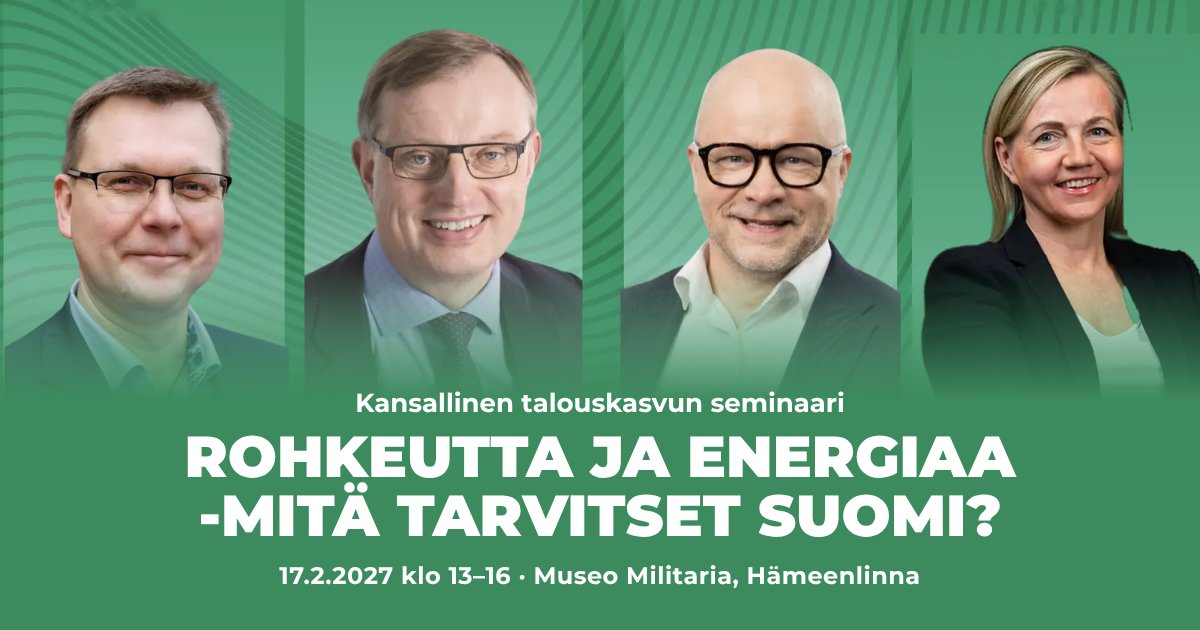
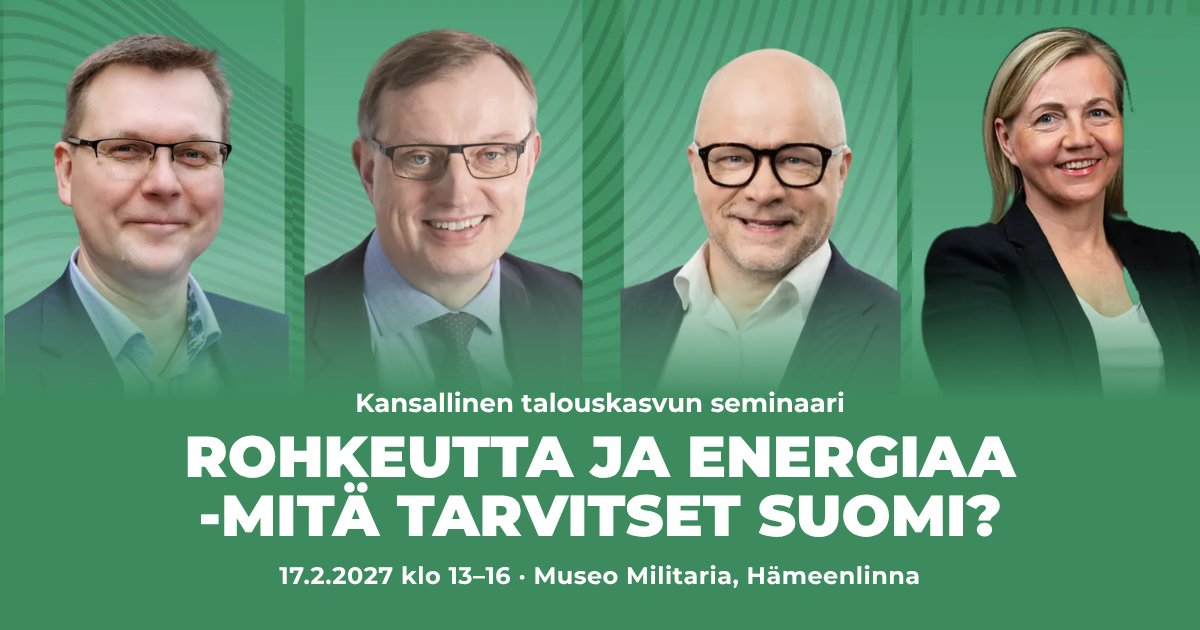
Headerit: kasvot ja nimet samalle tasolle, jakokuvat päivitetty
Claude-Session: https://claude.ai/code/session_01BAnQRurGiUY5PGZvuWWevC

Changed region(s): [[0.0, 0.0302, 0.2467, 0.6032], [0.7708, 0.0302, 1.0, 0.573], [0.7708, 0.573, 0.8017, 0.6032]]

diff --git a/kasvu.html b/kasvu.html
@@ -47,7 +47,7 @@ window.SEMINAARI = {
 };
 </script>
 
-<link rel="stylesheet" href="kirsi.css?v=20261101g">
+<link rel="stylesheet" href="kirsi.css?v=20261101h">
 </head>
 <body class="teema-kasvu">
 
@@ -61,7 +61,7 @@ window.SEMINAARI = {
 <header class="hero hero-ad">
   <div class="ad">
     <img src="kuvat/hero-kasvu.webp" alt="Sami Kotiniemi, Jukka Leskelä, Aki Kangasharju ja Tiina Laisi-Puheloinen" width="1600" height="726">
-    <div class="names"><div class="n" style="--b:66.5%"><div class="lbl"><b>Sami<br>Kotiniemi</b><small>Toimitusjohtaja, DA-Design Oy</small></div></div><div class="n" style="--b:74%"><div class="lbl"><b>Jukka<br>Leskelä</b><small>Toimitusjohtaja, Energiateollisuus</small></div></div><div class="n" style="--b:70.5%"><div class="lbl"><b>Aki<br>Kangasharju</b><small>Toimitusjohtaja, ETLA ja EVA</small></div></div><div class="n" style="--b:70.5%"><div class="lbl"><b>Tiina<br>Laisi-Puheloinen</b><small>Toimitusjohtaja, Fiban</small></div></div></div>
+    <div class="names"><div class="n" style="--b:73%"><div class="lbl"><b>Sami<br>Kotiniemi</b><small>Toimitusjohtaja, DA-Design Oy</small></div></div><div class="n" style="--b:73%"><div class="lbl"><b>Jukka<br>Leskelä</b><small>Toimitusjohtaja, Energiateollisuus</small></div></div><div class="n" style="--b:73%"><div class="lbl"><b>Aki<br>Kangasharju</b><small>Toimitusjohtaja, ETLA ja EVA</small></div></div><div class="n" style="--b:73%"><div class="lbl"><b>Tiina<br>Laisi-Puheloinen</b><small>Toimitusjohtaja, Fiban</small></div></div></div>
   </div>
   <div class="hero-text"><div class="in">
     <p class="kicker">Kansallinen talouskasvun seminaari</p>
@@ -272,6 +272,6 @@ window.SEMINAARI = {
   </div>
 </dialog>
 
-<script src="kassa.js?v=20261101g"></script>
+<script src="kassa.js?v=20261101h"></script>
 </body>
 </html>

diff --git a/puolustus.html b/puolustus.html
@@ -47,7 +47,7 @@ window.SEMINAARI = {
 };
 </script>
 
-<link rel="stylesheet" href="kirsi.css?v=20261101g">
+<link rel="stylesheet" href="kirsi.css?v=20261101h">
 </head>
 <body>
 
@@ -61,7 +61,7 @@ window.SEMINAARI = {
 <header class="hero hero-ad">
   <div class="ad">
     <img src="kuvat/hero-puolustus.webp" alt="Katleena Kortesuo, Timo Rotonen, Esa Rautalinko ja Tuija Karanko" width="1600" height="637">
-    <div class="names"><div class="n" style="--b:61.5%"><div class="lbl"><b>Katleena<br>Kortesuo</b><small>Tietokirjailija</small></div></div><div class="n" style="--b:69.5%"><div class="lbl"><b>Timo<br>Rotonen</b><small>Kenraaliluutnantti EVP</small></div></div><div class="n" style="--b:73.5%"><div class="lbl"><b>Esa<br>Rautalinko</b><small>Patrian toimitusjohtaja 2019-2026</small></div></div><div class="n" style="--b:64%"><div class="lbl"><b>Tuija<br>Karanko</b><small>PIA pääsihteeri</small></div></div></div>
+    <div class="names"><div class="n" style="--b:73%"><div class="lbl"><b>Katleena<br>Kortesuo</b><small>Tietokirjailija</small></div></div><div class="n" style="--b:73%"><div class="lbl"><b>Timo<br>Rotonen</b><small>Kenraaliluutnantti EVP</small></div></div><div class="n" style="--b:73%"><div class="lbl"><b>Esa<br>Rautalinko</b><small>Patrian toimitusjohtaja 2019-2026</small></div></div><div class="n" style="--b:73%"><div class="lbl"><b>Tuija<br>Karanko</b><small>PIA pääsihteeri</small></div></div></div>
   </div>
   <div class="hero-text"><div class="in">
     <p class="kicker">Kansallinen puolustusalan seminaari</p>
@@ -284,6 +284,6 @@ window.SEMINAARI = {
   </div>
 </dialog>
 
-<script src="kassa.js?v=20261101g"></script>
+<script src="kassa.js?v=20261101h"></script>
 </body>
 </html>

diff --git a/kirsi.css b/kirsi.css
@@ -503,7 +503,7 @@ footer .flogo{height:26px;width:auto;margin:0 auto 18px}
 .teema-kasvu .hero-ad{--hero:#3d8a5e;--hero-rgb:61,138,94}
 .hero-ad .ad{position:relative;max-width:1240px;margin:0 auto}
 .hero-ad .ad img{width:100%;height:auto}
-.hero-ad .ad::after{content:"";position:absolute;left:0;right:0;bottom:0;height:12%;background:linear-gradient(180deg,rgba(var(--hero-rgb),0),var(--hero))}
+.hero-ad .ad::after{content:"";position:absolute;left:0;right:0;bottom:0;height:22%;background:linear-gradient(180deg,rgba(var(--hero-rgb),0),var(--hero))}
 .hero-ad .names{position:absolute;inset:0;display:grid;grid-template-columns:repeat(4,minmax(0,1fr))}
 .hero-ad .n{position:relative}
 .hero-ad .lbl{position:absolute;left:4px;right:4px;bottom:var(--b);text-align:center;font-family:var(--sans);color:#fff;text-shadow:0 2px 12px rgba(0,0,0,.25)}

diff --git a/index.html b/index.html
@@ -32,7 +32,7 @@
 <link rel="preconnect" href="https://fonts.googleapis.com">
 <link rel="preconnect" href="https://fonts.gstatic.com" crossorigin>
 <link href="https://fonts.googleapis.com/css2?family=Montserrat:wght@400;500;600;700;800;900&family=Cormorant+Garamond:wght@400;500;600&display=swap" rel="stylesheet">
-<link rel="stylesheet" href="kirsi.css?v=20261101g">
+<link rel="stylesheet" href="kirsi.css?v=20261101h">
 </head>
 <body>
 

diff --git a/kiitos.html b/kiitos.html
@@ -30,7 +30,7 @@
 <link rel="preconnect" href="https://fonts.googleapis.com">
 <link rel="preconnect" href="https://fonts.gstatic.com" crossorigin>
 <link href="https://fonts.googleapis.com/css2?family=Montserrat:wght@400;500;600;700;800;900&family=Cormorant+Garamond:wght@400;500;600&display=swap" rel="stylesheet">
-<link rel="stylesheet" href="kirsi.css?v=20261101g">
+<link rel="stylesheet" href="kirsi.css?v=20261101h">
 </head>
 <body>
 

diff --git a/tue.html b/tue.html
@@ -30,7 +30,7 @@
 <link rel="preconnect" href="https://fonts.googleapis.com">
 <link rel="preconnect" href="https://fonts.gstatic.com" crossorigin>
 <link href="https://fonts.googleapis.com/css2?family=Montserrat:wght@400;500;600;700;800;900&family=Cormorant+Garamond:wght@400;500;600&display=swap" rel="stylesheet">
-<link rel="stylesheet" href="kirsi.css?v=20261101g">
+<link rel="stylesheet" href="kirsi.css?v=20261101h">
 </head>
 <body>
 
